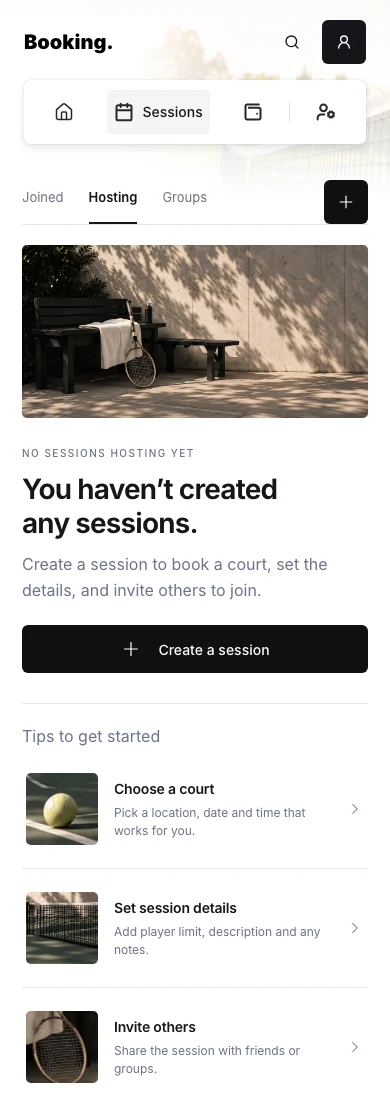
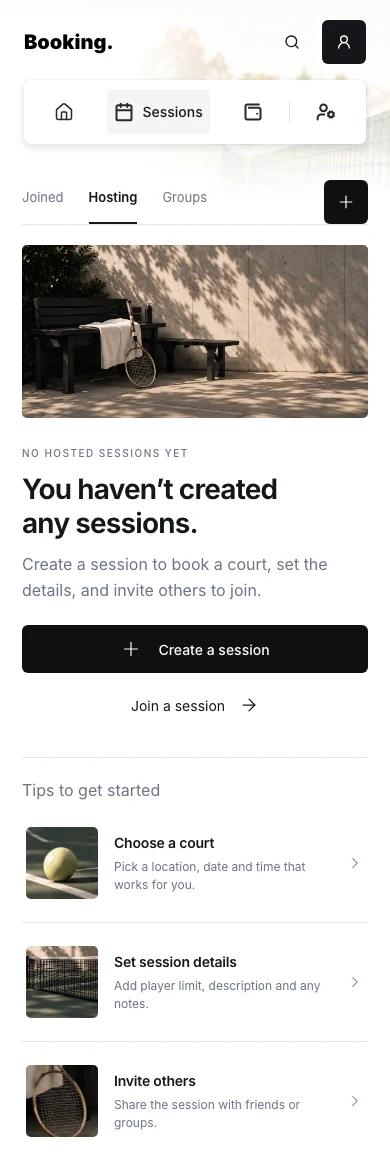
fix(sessions): align empty hosting actions with joined

diff --git a/app/sessions/_components/sessions-view.stories.tsx b/app/sessions/_components/sessions-view.stories.tsx
@@ -204,7 +204,8 @@ export const EmptyHosting: Story = {
     await expect(canvas.getByRole("link", { name: /^Choose a court/ })).toHaveAttribute("href", "/sessions/create");
     await expect(canvas.getByRole("link", { name: /^Set session details/ })).toHaveAttribute("href", "/sessions/create");
     await expect(canvas.getByRole("link", { name: /^Invite others/ })).toHaveAttribute("href", "/groups");
-    await expect(canvas.queryByRole("link", { name: "Join a session" })).not.toBeInTheDocument();
+    await expect(canvas.getByText("No hosted sessions yet")).toBeVisible();
+    await expect(canvas.getByRole("link", { name: "Join a session" })).toHaveAttribute("href", "/discover?returnTo=%2Fsessions");
     await expectNoHorizontalOverflow();
   },
 };
@@ -241,6 +242,7 @@ export const EmptyHostingNeedsEmail: Story = {
     await expect(canvas.getByRole("link", { name: /^Set session details/ })).toHaveAttribute("href", "/profile/email");
     await expect(canvas.queryByRole("link", { name: "Create a session" })).not.toBeInTheDocument();
     await expect(canvas.queryByRole("link", { name: "New session" })).not.toBeInTheDocument();
+    await expect(canvas.getByRole("link", { name: "Join a session" })).toHaveAttribute("href", "/discover?returnTo=%2Fsessions");
     await expectNoHorizontalOverflow();
   },
 };
@@ -253,6 +255,7 @@ export const EmptyHostingNeedsSetup: Story = {
     await expect(canvas.getByRole("link", { name: /^Set session details/ })).toHaveAttribute("href", "/profile");
     await expect(canvas.queryByRole("link", { name: "Create a session" })).not.toBeInTheDocument();
     await expect(canvas.queryByRole("link", { name: "New session" })).not.toBeInTheDocument();
+    await expect(canvas.getByRole("link", { name: "Join a session" })).toHaveAttribute("href", "/discover?returnTo=%2Fsessions");
     await expectNoHorizontalOverflow();
   },
 };

diff --git a/app/sessions/_components/sessions-view.tsx b/app/sessions/_components/sessions-view.tsx
@@ -89,12 +89,12 @@ function EmptySessions({ tab, actions }: Pick<SessionsViewProps, "tab" | "action
       <Image src={`/images/sessions/${joined ? "court" : "bench"}.webp`} alt="" fill priority sizes="(min-width: 768px) 80vw, 100vw" className={styles.photo} />
     </div>
     <div className={styles.emptyCopy}>
-      <p className={styles.emptyEyebrow}>{joined ? "No sessions yet" : "No sessions hosting yet"}</p>
+      <p className={styles.emptyEyebrow}>{joined ? "No sessions yet" : "No hosted sessions yet"}</p>
       <h2 id={`${id}-heading`}>{joined ? "Your sessions will appear here." : "You haven’t created any sessions."}</h2>
       <p className={styles.emptyDescription}>{joined ? "Join a session or create your own to start playing with others." : "Create a session to book a court, set the details, and invite others to join."}</p>
       <div className={styles.emptyActions}>
         <Link className={styles.primaryButton} href={joined ? discoverHref : createHref}><Plus size={22} strokeWidth={1.3} aria-hidden />{joined ? "Join a session" : createLabel}</Link>
-        {joined && <Link className={styles.emptySecondaryButton} href={createHref}>{createLabel}<ArrowRight size={20} strokeWidth={1.5} aria-hidden /></Link>}
+        <Link className={styles.emptySecondaryButton} href={joined ? createHref : discoverHref}>{joined ? createLabel : "Join a session"}<ArrowRight size={20} strokeWidth={1.5} aria-hidden /></Link>
       </div>
     </div>
     <section className={styles.emptySuggestions} aria-labelledby={`${id}-suggestions`}>

diff --git a/docs/assets/sessions/README.md b/docs/assets/sessions/README.md
@@ -9,7 +9,7 @@ Captured from the actual `Sessions/Overview` Storybook stories in Chromium on 21
 | `joined-scroll-current.webp` | 1536 × 1024 | `desktop-joined`, after scrolling to the third session |
 | `joined-mobile.webp` | 390 × 844 | `mobile-reference`: simple two-session list in the original mobile shell |
 | `empty-joined-desktop.webp` | 1536 × 1024 | `empty-joined`: court banner, discovery/creation actions and three starter links |
-| `empty-hosting-desktop.webp` | 1536 × 1024 | `empty-hosting`: bench banner, creation action and three hosting tips |
+| `empty-hosting-desktop.webp` | 1536 × 1024 | `empty-hosting`: bench banner, primary creation/secondary discovery actions and three hosting tips |
 | `empty-joined-mobile.webp` | 390 × 844, full page | `empty-joined`: stacked actions and starter links |
 | `empty-hosting-mobile.webp` | 390 × 844, full page | `empty-hosting`: responsive hosting empty state |
 | `empty-joined-dark.webp` | 1536 × 1024 | `empty-joined`, dark theme |
@@ -23,7 +23,7 @@ The sessions page owns its breadcrumb and bordered content panel. Joined alone h
 
 The current day is bold at 48px; inactive days are muted at 26px. The animated marker follows the measured center of the current numeral after selection and resizing. Historical dates retain their grey color when selected, and historical artwork is desaturated. Keyboard selection, scroll anchoring, forward/reverse scrolling and reduced motion remain supported.
 
-Hosting has equal-width upcoming cards with dates above the artwork, venue titles, sport/region subtitles and time/player metadata. Previous/Next controls move the carousel. Past sessions use plain divider-separated rows. Both mobile views retain simple dated cards. Empty views fit their banners inside the same panel and use three starter links separated by vertical rules on desktop and stacked on mobile.
+Hosting has equal-width upcoming cards with dates above the artwork, venue titles, sport/region subtitles and time/player metadata. Previous/Next controls move the carousel. Past sessions use plain divider-separated rows. Both mobile views retain simple dated cards. Empty views fit their banners inside the same panel and use three starter links separated by vertical rules on desktop and stacked on mobile. Both use the same primary/secondary action styling: Joined leads with Join a session, while Hosting leads with Create a session and offers Join a session as its secondary action. Hosting keeps its bench artwork and uses the label “No hosted sessions yet”.
 
 Zustand keeps account-scoped guarded `browsing`/`viewingSession` modes, selected view, timeline session and remembered detail panels. Validated URL storage restores the tab, Joined session and panel, for example `/sessions?tab=joined&session=<uuid>&panel=participants`. Restoring the URL expands the timeline card without opening a dialog; the remembered panel appears when View details is opened. Account changes create fresh state and clear the session/panel URL selection. React Query retains ownership of data, loading, failures and pagination. Restoration loads further pages as needed, preserves the URL after failed requests for retry, and clears unavailable selections only after exhausting the feed.
 
@@ -46,3 +46,5 @@ Executed for the compact-layout and original-shell update:
 - Real Chromium and WebKit mouse-open/Escape-close checks at a restored session near the end of the feed retained the same selection, panel, scroll position and trigger focus.
 
 These fixtures and screenshots demonstrate local behavior, not production data.
+
+The Hosting empty-state refinement was verified separately with typecheck, lint, all 24 overview Storybook interaction/accessibility checks, and the 28 empty-view Chromium/WebKit scenarios above. Hosting screenshots were refreshed for desktop, mobile and dark mode. Account-gated stories confirm discovery remains available alongside Add email or account setup.
